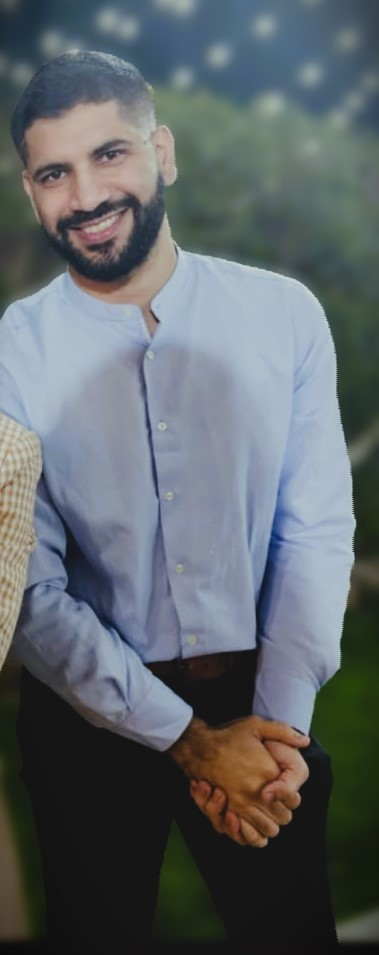
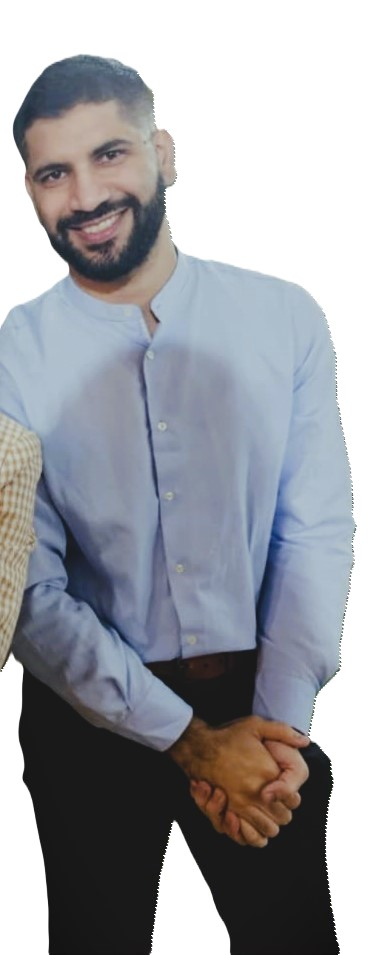
css

diff --git a/Style/main.css b/Style/main.css
@@ -125,23 +125,23 @@ a {
   color: aqua;
 }
 #header-container #MeImg {
-  height: 40%;
+  height: 70%;
   width: 20%;
   display: flex;
   justify-content: center;
   align-items: center;
   margin-top: 40px;
+  background-image: url(../TigerImages/wedding.jpg);
+  background-repeat: no-repeat;
+  background-position: top left;
+  background-size: cover;
+  filter: brightness(100%) sepia(200%) hue-rotate(20deg);
 }
-#header-container #MeImg .MeImg {
-  height: 90%;
-  width: 60%;
+#header-container #MeImg:hover {
+  filter: brightness(100%) sepia(40%) hue-rotate(20deg);
 }
-#header-container #MeImg .MeImg:hover {
-  transform: scale(1.4);
-  transition: all 1.3s ease-in-out;
-  cursor: pointer;
-}
-#header-container .text-container {
+
+.text-container {
   display: flex;
   justify-content: center;
   align-items: first baseline;
@@ -150,7 +150,7 @@ a {
   height: 100%;
   color: aqua;
 }
-#header-container .text-container #wordByWordI {
+.text-container #wordByWordI {
   font-family: "Nanum Brush Script", cursive;
   font-size: 2rem;
   text-align: center;
@@ -474,16 +474,7 @@ footer form label {
     word-spacing: 0;
   }
   #header-container #MeImg {
-    height: 50%;
-    width: 50%;
-    display: flex;
-    justify-content: center;
-    align-items: center;
-    margin: 10px;
-  }
-  #header-container #MeImg .MeImg {
-    height: 60%;
-    width: 60%;
+    display: none;
   }
   #header-container .text-container {
     width: 55%;

diff --git a/Style/LandingPageStyle.css b/Style/LandingPageStyle.css
@@ -156,23 +156,23 @@ a {
   color: aqua;
 }
 #header-container #MeImg {
-  height: 40%;
+  height: 70%;
   width: 20%;
   display: flex;
   justify-content: center;
   align-items: center;
   margin-top: 40px;
+  background-image: url(../TigerImages/wedding.jpg);
+  background-repeat: no-repeat;
+  background-position: top left;
+  background-size: cover;
+  filter: brightness(100%) sepia(200%) hue-rotate(20deg);
 }
-#header-container #MeImg .MeImg {
-  height: 90%;
-  width: 60%;
+#header-container #MeImg:hover {
+  filter: brightness(100%) sepia(40%) hue-rotate(20deg);
 }
-#header-container #MeImg .MeImg:hover {
-  transform: scale(1.4);
-  transition: all 1.3s ease-in-out;
-  cursor: pointer;
-}
-#header-container .text-container {
+
+.text-container {
   display: flex;
   justify-content: center;
   align-items: first baseline;
@@ -181,7 +181,7 @@ a {
   height: 100%;
   color: aqua;
 }
-#header-container .text-container #wordByWordI {
+.text-container #wordByWordI {
   font-family: "Nanum Brush Script", cursive;
   font-size: 2rem;
   text-align: center;
@@ -253,16 +253,7 @@ a {
     word-spacing: 0;
   }
   #header-container #MeImg {
-    height: 50%;
-    width: 50%;
-    display: flex;
-    justify-content: center;
-    align-items: center;
-    margin: 10px;
-  }
-  #header-container #MeImg .MeImg {
-    height: 60%;
-    width: 60%;
+    display: none;
   }
   #header-container .text-container {
     width: 55%;

diff --git a/Style/_introduction.scss b/Style/_introduction.scss
@@ -19,21 +19,20 @@
         }
         
     #MeImg{
-    height: 40%;
-    width: 20%;    
-    display: flex;
-    justify-content: center;
-    align-items: center;
-    margin-top: 40px;
+        height: 70%;
+        width: 20%;    
+        display: flex;
+        justify-content: center;
+        align-items: center;
+        margin-top: 40px;
+        background-image: url(../TigerImages/wedding.jpg);
+        background-repeat: no-repeat;
+        background-position: top left;
+        background-size: cover;
+        filter: brightness(100%) sepia(200%) hue-rotate(20deg);
 
-        .MeImg{
-            height: 90%;
-            width: 60%;
-        
             &:hover {
-                transform: scale(1.4);
-                transition: all 1.3s ease-in-out;
-                cursor: pointer;
+                filter: brightness(100%) sepia(40%) hue-rotate(20deg);
             }
         }
             
@@ -58,6 +57,5 @@
                 height: 50%;
             }
     }
-}
 
 

diff --git a/Style/_phoneScreen.scss b/Style/_phoneScreen.scss
@@ -59,18 +59,7 @@
             word-spacing: 0;
         }
             #MeImg{
-                height: 50%;
-                width: 50%;    
-                display: flex;
-                justify-content: center;
-                align-items: center;
-                margin: 10px;
-
-                .MeImg{
-                    height: 60%;
-                    width: 60%;
-                
-                }
+               display: none;
 
             }
 

diff --git a/index.html b/index.html
@@ -38,7 +38,7 @@
         </div>
 
         <div id="MeImg">
-            <img src="./TigerImages/wedding.jpg" alt="Yasir's Photo" class="MeImg">
+            <!-- <img src="./TigerImages/wedding.jpg" alt="Yasir's Photo" class="MeImg"> -->
         </div>
     </section>
 
